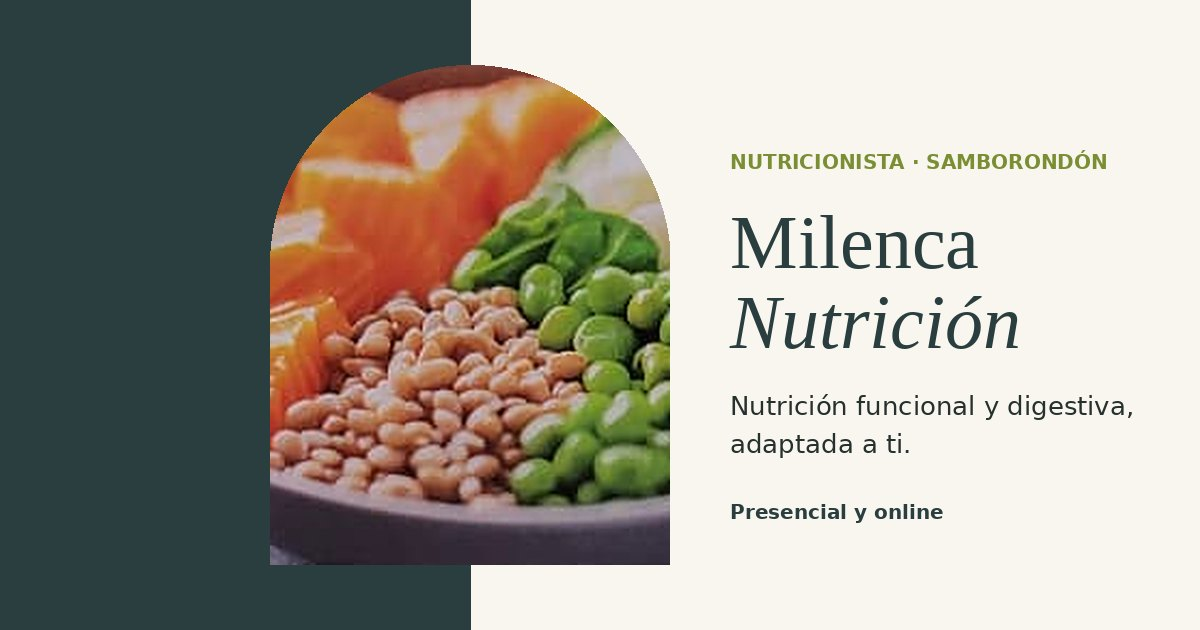
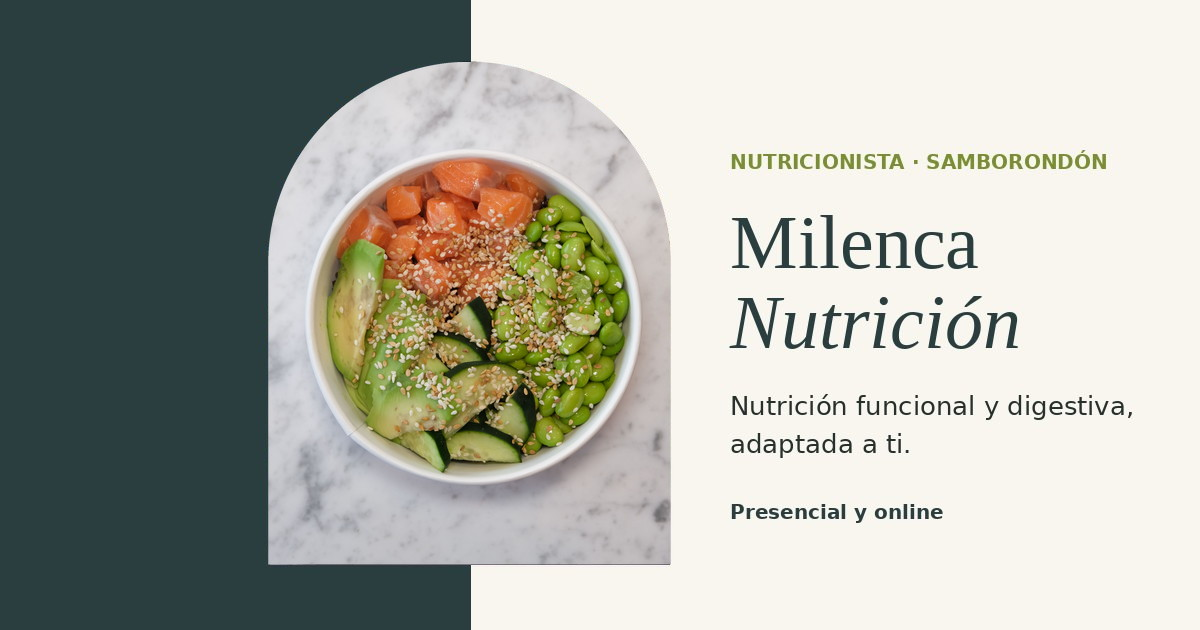
Reemplazar fotos de comida de baja resolución por imágenes nítidas
The Mi enfoque photos were 720px and heavily compressed. Swap in 1800px WebP originals and rebuild the social card with the new bowl so the site stays sharp on retina screens.

Changed region(s): [[0.2158, 0.0905, 0.5858, 0.9048]]

diff --git a/index.html b/index.html
@@ -170,12 +170,12 @@
       <div class="hero__visual reveal" data-delay="2">
         <div class="hero__blob" aria-hidden="true"></div>
         <div class="hero__arch">
-          <img src="assets/images/bowl-antiinflamatorio.webp" width="720" height="720" loading="lazy" decoding="async"
+          <img src="assets/images/bowl-antiinflamatorio.webp" width="1800" height="1800" loading="lazy" decoding="async"
                alt="Bowl saludable con salmón, legumbres, edamame y hojas verdes">
         </div>
         <div class="hero__inset">
-          <img src="assets/images/alimentos-naturales.webp" width="720" height="720" loading="lazy" decoding="async"
-               alt="Frutas, verduras, frutos secos y semillas sobre una mesa">
+          <img src="assets/images/alimentos-naturales.webp" width="1800" height="1800" loading="lazy" decoding="async"
+               alt="Bowl de quinoa con verduras y hierbas frescas sobre una mesa">
         </div>
         <div class="hero__badge">
           <strong>Evaluación integral</strong>
@@ -533,9 +533,9 @@
       <div class="instagram__feed reveal" id="instagram-feed">
         <a class="instagram__fallback" href="https://www.instagram.com/milencanutricion/" data-instagram
            aria-label="Ver las publicaciones de @milencanutricion en Instagram (se abre en una nueva pestaña)">
-          <span class="instagram__tile"><img src="assets/images/bowl-antiinflamatorio.webp" width="720" height="720" loading="lazy" decoding="async" alt=""></span>
+          <span class="instagram__tile"><img src="assets/images/bowl-antiinflamatorio.webp" width="1800" height="1800" loading="lazy" decoding="async" alt=""></span>
           <span class="instagram__tile"><img src="assets/images/recetario-antiinflamatorio.webp" width="684" height="909" loading="lazy" decoding="async" alt=""></span>
-          <span class="instagram__tile"><img src="assets/images/alimentos-naturales.webp" width="720" height="720" loading="lazy" decoding="async" alt=""></span>
+          <span class="instagram__tile"><img src="assets/images/alimentos-naturales.webp" width="1800" height="1800" loading="lazy" decoding="async" alt=""></span>
           <span class="instagram__tile instagram__tile--cta">
             <svg class="icon" aria-hidden="true"><use href="#i-ig"/></svg>
             <span>Ver publicaciones</span>
@@ -561,8 +561,8 @@
           </div>
         </div>
         <div class="cta-final__media">
-          <img src="assets/images/alimentos-naturales.webp" width="720" height="720" loading="lazy" decoding="async"
-               alt="Variedad de alimentos naturales: frutas, verduras, legumbres y frutos secos">
+          <img src="assets/images/alimentos-naturales.webp" width="1800" height="1800" loading="lazy" decoding="async"
+               alt="Quinoa con verduras, brócoli y hierbas frescas">
         </div>
       </div>
     </div>

diff --git a/ebooks.html b/ebooks.html
@@ -123,8 +123,8 @@
           </div>
         </div>
         <div class="coming__media">
-          <img src="assets/images/alimentos-naturales.webp" width="720" height="720" loading="lazy" decoding="async"
-               alt="Alimentos naturales: frutas, verduras, frutos secos y semillas">
+          <img src="assets/images/alimentos-naturales.webp" width="1800" height="1800" loading="lazy" decoding="async"
+               alt="Bowl de quinoa con verduras y hierbas frescas">
         </div>
       </div>
     </div>

diff --git a/README.md b/README.md
@@ -38,7 +38,7 @@ Todas las rutas son relativas, por lo que funciona tanto en un repositorio de pr
 | Feed de Instagram | `js/config.js` → `instagramFeed.feedId` (ver sección *Instagram*) | Pendiente |
 | Texto de presentación | `index.html`, comentario `✏ TEXTO DE PRESENTACIÓN EDITABLE` | Texto base editable |
 | Ebooks (nombres, precios, portadas) | `js/ebooks.js` | Pendiente (se muestran tarjetas «Próximamente») |
-| Fotografías de «Mi enfoque» | `assets/images/bowl-antiinflamatorio.webp` y `alimentos-naturales.webp` | Tomadas del recetario; se recomienda reemplazarlas por fotos en alta resolución (mín. 1200 px) con el mismo nombre |
+| Fotografías de «Mi enfoque» | `assets/images/bowl-antiinflamatorio.webp` y `alimentos-naturales.webp` | Fotos de stock en 1800 px (WebP). Se pueden sustituir por fotos propias con el mismo nombre. Licencia [Pexels](https://www.pexels.com/license/) (uso comercial, sin atribución obligatoria). |
 
 > El número de WhatsApp solo lleva dígitos con código de país, sin `+`, espacios ni el `0` inicial: `0991234567` → `593991234567`.
 
